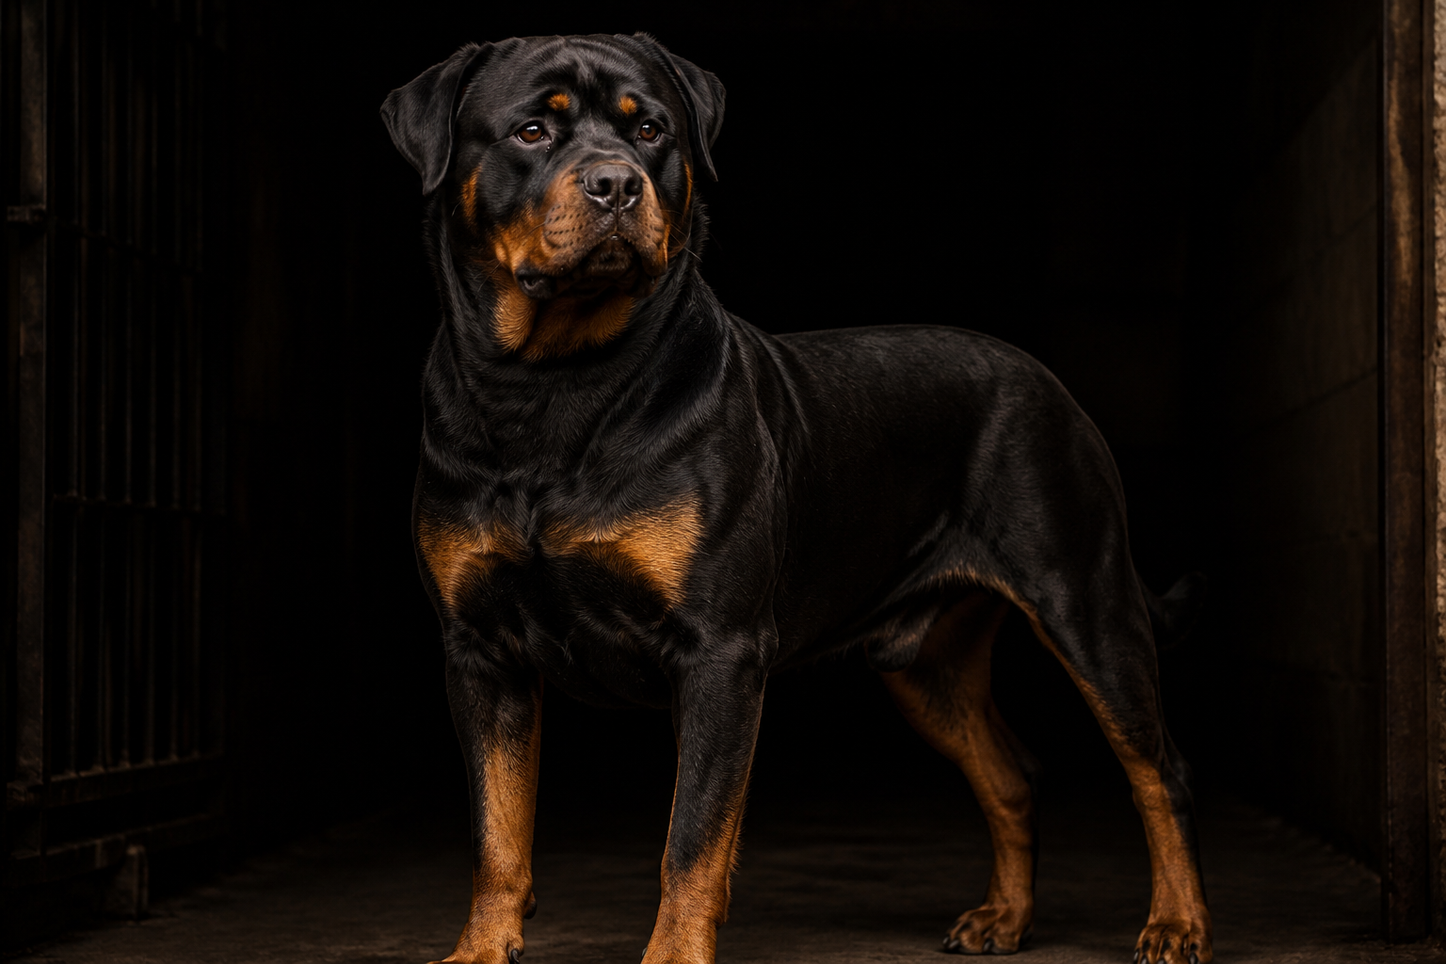
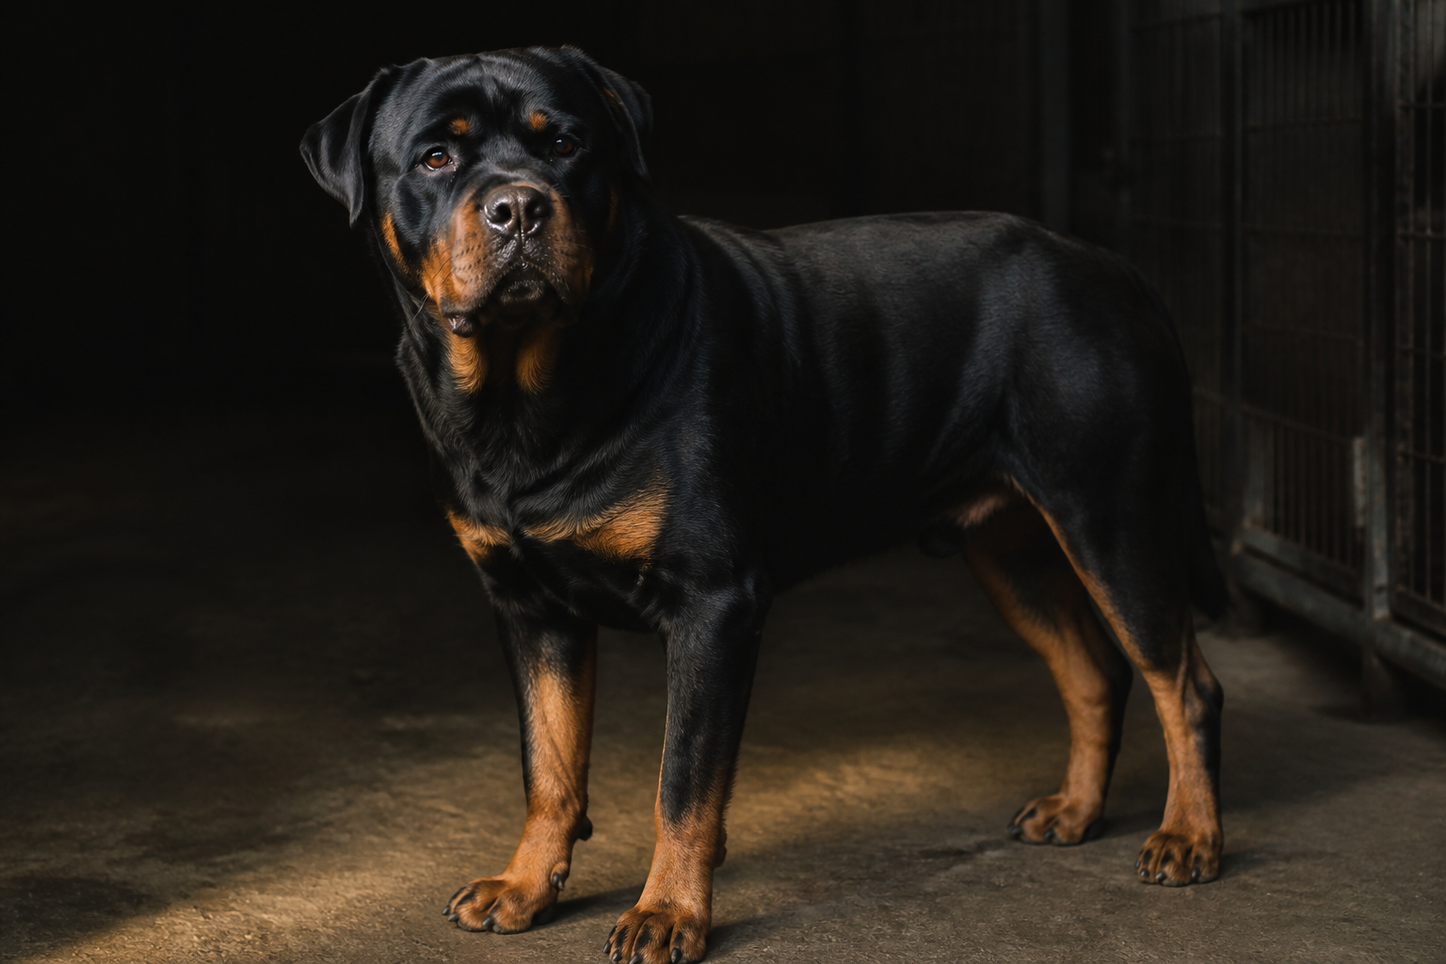
feat(org): require design briefs before Layer B production
Gate email/stills/video/paid work on design-pack briefs and prompts; regenerate Blacksage stills and add the inquiry-welcome email design brief.

diff --git a/skills/org/packs/production-artifacts/SKILL.md b/skills/org/packs/production-artifacts/SKILL.md
@@ -24,16 +24,59 @@ Markdown under `docs/projects/<active>/business-idea/` is **Layer A craft** (SSO
 7. **Wire is explicit** — handoff lists `wire_owner` (`operator` | seat slug | `none`) and what remains after approve.
 8. **Figma ≠ Layer B.** Editing in Figma alone is not production. Export PNG/SVG/PDF (or tokens/components) into the leased path before `production_status: complete`.
 9. **Verifier gate.** Shippable phases require `HANDOFFS/<phase>-verifier.md` with `verdict: pass` before C-suite may approve (see `positions/verifier/`).
+10. **Design before production.** Never generate Layer B (HTML, stills, video, design-system tokens, app UI) until a **Design brief** exists that (a) cites the required design skill packs, (b) locks look/feel from brand tokens, and (c) includes generation/layout prompts. Jumping from craft MD → pixels is a reject.
 
-## Three layers
+## Four layers
 
 | Layer | Meaning | Typical paths |
 |-------|---------|----------------|
 | **Craft** | Strategy, copy, journeys, specs | `business-idea/**/*.md` |
+| **Design** | Look/feel, layout system, generation prompts | `**/design/*-design-brief.md` (or `## Design brief` in craft) |
 | **Production** | Importable / deployable / renderable files | `.html`, `apps/…`, images, video finals, design tokens |
 | **Wire** | Live systems | ESP automations, ad accounts, DNS, analytics property |
 
-Flow: **Craft → Production → Wire**
+Flow: **Craft → Design → Production → Wire**
+
+## Design-before-production gate (mandatory)
+
+Before any still, HTML email, video final, design-system file, or app UI production:
+
+1. **Read** the phase’s **Required design packs** (table below) — not optional skim.
+2. **Pull brand tokens** from `11-brand-system.md` (color, type, imagery rules). Do not invent a parallel palette.
+3. **Write a Design brief** (file or section) that includes:
+   - **Look & feel** — layout, typography, color roles, spacing, mobile rules from the design pack
+   - **Component plan** — e.g. email inverted pyramid + bulletproof CTA; page sections; ad frame sizes
+   - **Generation prompts** — exact prompts for headers/stills/video keyframes (camera/lens language per `photoreal-stills` when photoreal)
+   - **Packs cited** — repo-relative paths of design skills actually applied
+4. **Only then** render/generate Layer B from that brief (HTML from email-design rules; stills from prompts in the brief).
+5. Handoff sets `design_brief_path` and lists design packs under **Packs used** with one concrete decision each.
+
+### Design brief paths (preferred)
+
+| Asset class | Preferred brief path |
+|-------------|----------------------|
+| Email | `17-channels/email/design/<journey>-design-brief.md` |
+| Brand stills | `11-brand/design/<slug>-design-brief.md` |
+| Page imagery | `14-pages/design/<page>-design-brief.md` |
+| Video | `15-media/design/<slug>-design-brief.md` |
+| Paid creatives | `19-paid/design/<slug>-design-brief.md` |
+| Web / design-system | `12-web-design.md` Design brief section **or** `design-system/<venture>/DESIGN-BRIEF.md` |
+
+Short phases may embed `## Design brief (required before production)` in the craft MD instead of a separate file — same required fields.
+
+### Required design packs by phase
+
+| Phase | Required design packs (read before Layer B) | Then produce with |
+|-------|---------------------------------------------|-------------------|
+| **9** | `design-system/<venture>/` tokens + seat Next/shadcn packs; `landing-page-design` when shipping marketing pages | App routes/components |
+| **11** | `ui-ux-pro-max-skill/brand/`, `visual-style`, `visual-skills/image`, **`photoreal-stills`** | Brand stills via fal/inference |
+| **12** | `ui-ux-pro-max-skill/design-system/`, `ui-styling`, `shadcn`, figma-design-to-code | `design-system/<venture>/` + UI stills |
+| **14** | Page craft + `visual-skills/image` + **`photoreal-stills`** for imagery; `landing-page-design` when HTML/app | `14-pages/assets/`; app via P9 |
+| **15** | OpenMontage visual-style + storyboard craft; **`photoreal-stills`** for keyframes | `15-media/openmontage/` |
+| **17** | **`inference-sh/email-design/`** (layout/CTA/header rules) + craft `emails/` + brand tokens; **`photoreal-stills`** for headers | `email/html/` + `email/assets/` |
+| **19** | `ad-creative` / scroll-stopping packs + **`photoreal-stills`** for stills | `19-paid/creatives/` |
+
+**Email example:** Read `email-design` → write design brief (600px, inverted pyramid, CTA table, header prompt with brand hex) → generate header still from that prompt → build HTML matching the brief. Do **not** invent HTML chrome or header prompts without the brief.
 
 ## Canonical Layer B paths
 
@@ -79,7 +122,7 @@ Flow: **Craft → Production → Wire**
 | **12** | `12-web-design.md` | `web-designer` (+ brand) | `design-system/<venture>/`; UI stills when leased | shadcn, figma-design-to-code, brand-stills | Consumed by Phase 9 — eng |
 | **14** | `14-pages/*.md` | Craft: copy/seo/content; **Imagery:** `brand-designer`; **HTML/app:** `tech-lead` (P9) | `14-pages/assets/`; app via `apps/<venture>/` | copy + visual-skills; eng packs | Deploy — operator/cto |
 | **15** | `15-media/` scripts | `video-producer` | `15-media/openmontage/` (or skip) | OpenMontage + `hero-video`; doctor green or skip | Upload — operator |
-| **17** | `17-channels/email/*.md`, `social/*.md` | Email HTML: `lifecycle-marketer`; Headers/social: `brand-designer` via ask | `17-channels/email/html/*.html`; `email/assets/`; `social/assets/` | emails + **email-design**; brand-stills | ESP — **operator** |
+| **17** | `17-channels/email/*.md`, `social/*.md` | Email HTML: `lifecycle-marketer`; Headers/social: `brand-designer` via ask | `17-channels/email/html/*.html`; `email/assets/`; `social/assets/` | Craft emails → **Design: email-design brief** → HTML + brand-stills | ESP — **operator** |
 | **18** | `18-conversion.md` | Spec; forms → `tech-lead` | `apps/<venture>/` when leased | cro + eng | Analytics — head-of-data / operator |
 | **19** | `19-paid.md` | Stills: `paid-media-manager` (+ brand); Video: `video-producer` | `19-paid/creatives/`; `19-paid/openmontage/` | ads + fal/OpenMontage; budget > $0 or skip | Ad accounts — operator |
 
@@ -120,12 +163,13 @@ Phases **0–8, 10, 13, 16, 20–22** are primarily Craft/SPEC. Production not r
 production_status: complete | skipped | blocked
 production_paths:
   - docs/projects/<active>/business-idea/17-channels/email/html/...
+design_brief_path: docs/projects/<active>/business-idea/17-channels/email/design/...-design-brief.md
 wire_owner: operator | tech-lead | none
 wire_notes: "Import HTML into ESP; set Q7 CONTACT_EMAIL"
 skip_reason: "" # required if production_status=skipped
 ```
 
-Also list production paths in the **Artifacts written** table. `production_paths` is the light asset registry for the phase.
+Also list production paths in the **Artifacts written** table. `production_paths` is the light asset registry for the phase. `design_brief_path` required when `production_status: complete` on design-led assets (email, stills, video, paid, design-system).
 
 ## Manager / C-suite / verifier gates
 
@@ -146,3 +190,5 @@ C-suite scorecards must include **Production** and **Verifier pass?** rows (see 
 | “design-system lives in the app” | SSOT is `design-system/<venture>/` |
 | “No ESP in TOOL-REGISTRY” | Wire = operator; Production HTML still required |
 | “Manager said it’s done” | Verifier must still pass |
+| “I’ll design in the HTML as I go” | Write Design brief from email-design/brand packs first |
+| “Prompt is in my head” | Prompts must be in the Design brief before stills/video |

diff --git a/docs/projects/blacksage-kennels/business-idea/HANDOFFS/17-lifecycle-marketer.md b/docs/projects/blacksage-kennels/business-idea/HANDOFFS/17-lifecycle-marketer.md
@@ -12,8 +12,10 @@ fallback_applied: false
 production_status: complete
 production_paths:
   - docs/projects/blacksage-kennels/business-idea/17-channels/email/html/inquiry-welcome-1-interest-ack.html
+  - docs/projects/blacksage-kennels/business-idea/17-channels/email/assets/blacksage-email-header-1200x400.png
+design_brief_path: docs/projects/blacksage-kennels/business-idea/17-channels/email/design/inquiry-welcome-design-brief.md
 wire_owner: operator
-wire_notes: "ESP import + merge tags ([DOMAIN], [CONTACT_EMAIL], [RESPONSE_SLA], [OPERATOR_NAME], [First Name]). Stills/video skipped for this venture proof."
+wire_notes: "ESP import + merge tags ([DOMAIN], [CONTACT_EMAIL], [RESPONSE_SLA], [OPERATOR_NAME], [First Name]). Host header PNG for ESP."
 skip_reason: ""
 ---
 
@@ -25,7 +27,9 @@ Produce Layer B HTML for one send-ready inquiry welcome email from existing craf
 ## Artifacts written (write_lease only)
 | Path | Notes |
 |------|-------|
-| `docs/projects/blacksage-kennels/business-idea/17-channels/email/html/inquiry-welcome-1-interest-ack.html` | Email 1 Package A auto-ack from `inquiry-welcome.md` |
+| `docs/projects/blacksage-kennels/business-idea/17-channels/email/design/inquiry-welcome-design-brief.md` | email-design + brand tokens → look/feel + header prompt |
+| `docs/projects/blacksage-kennels/business-idea/17-channels/email/html/inquiry-welcome-1-interest-ack.html` | Built from design brief |
+| `docs/projects/blacksage-kennels/business-idea/17-channels/email/assets/blacksage-email-header-1200x400.png` | From brief header prompt |
 
 ## Model routing
 | Field | Value |
@@ -43,30 +47,32 @@ Produce Layer B HTML for one send-ready inquiry welcome email from existing craf
 | production_paths | HTML above |
 | wire_owner | operator |
 | wire_notes | ESP import remaining |
-| skip_reason | n/a — HTML complete; headers deferred (text-only OK) |
+| skip_reason | n/a — HTML + header from design brief |
 
 ## Packs used
 | Pack path | Decision |
 |-----------|----------|
 | `skills/org/packs/production-artifacts/` | Lease `email/html/`; Wire = operator |
-| `skills/community/inference-sh/email-design/` | 600px single column, bulletproof CTA, unsub, ≥14px body |
+| `skills/community/inference-sh/email-design/` | Design brief: inverted pyramid, 600px, bulletproof CTA, header rules |
+| `skills/org/packs/photoreal-stills/` | Header prompt locked in design brief before gen |
 | `skills/community/marketingskills/emails/` | Craft already in `inquiry-welcome.md` |
 
 ## Email HTML QA
 - [x] File under `17-channels/email/html/`
 - [x] Max-width ~600px, single column
 - [x] Primary CTA bulletproof table button
-- [x] No images (headers deferred)
+- [x] Header image with alt text (from design brief prompt)
 - [x] Unsubscribe placeholder present
 - [x] Body font 16px
 - [x] Matches craft subject/preview/CTA intent
 
 ## Asks for manager (`ask_manager`)
-- None for HTML proof. Brand headers optional later via brand-designer.
+- None for this proof.
 
 ## Risks / blockers
 - Placeholders `[DOMAIN]`, `[CONTACT_EMAIL]`, `[RESPONSE_SLA]` still operator-owned (known soft-launch blockers).
+- Header still is Cursor draft until FAL key enables FLUX.2 finals.
 
 ## Do not
 - Quote price or imply reservation/approval in email.
-- Claim stills/video production for this proof.
+- Generate Layer B without a design brief citing email-design.

diff --git a/docs/projects/blacksage-kennels/business-idea/17-channels/email/design/inquiry-welcome-design-brief.md b/docs/projects/blacksage-kennels/business-idea/17-channels/email/design/inquiry-welcome-design-brief.md
@@ -1,0 +1,62 @@
+# Design brief — Inquiry welcome (Package A Email 1)
+
+**Craft source:** `17-channels/email/inquiry-welcome.md` (Email 1)  
+**Brand tokens:** `11-brand-system.md` (Working-Dog Cinema)  
+**Status:** locked for production HTML + header still
+
+## Packs cited
+
+| Pack | Decision applied |
+|------|------------------|
+| `skills/community/inference-sh/email-design/` | 600px single column; inverted pyramid; bulletproof CTA table; body ≥14px; intentional preview text; header 600×~250–400 |
+| `skills/org/packs/production-artifacts/` | Design before HTML/stills; lease `email/html/` + `email/assets/` |
+| `skills/org/packs/photoreal-stills/` | Header prompt uses camera/lens + brand hex; draft Cursor gen until FAL |
+| `skills/community/marketingskills/emails/` | Journey craft already locked in MD |
+
+## Look & feel
+
+| Token | Value |
+|-------|-------|
+| Outer bg | `#070707` (void) |
+| Email card | `#121212` (elevated) |
+| Text primary | `#F3EFE6` |
+| Text muted | `#A8A49C` |
+| CTA fill | `#C4A35A` (tan key) |
+| CTA text | `#070707` |
+| Display | Georgia / serif for headline |
+| Body | Arial/Helvetica ≥16px, line-height ~1.55 |
+| Width | max-width 600px, single column |
+| Mood | Documentary calm; prestige kennel — not promo scarcity |
+
+## Layout (email-design inverted pyramid)
+
+1. **Header image** — full-bleed 600px wide photoreal Rottweiler (Working-Dog Cinema)
+2. **Headline** — thank-you / interest list confirmation
+3. **Preview support** — one muted line (inbox preview intent)
+4. **Body** — short paragraphs + “What happens next” bullets
+5. **Primary CTA** — bulletproof table button → Health & education
+6. **Footer** — unsubscribe / contact placeholders
+
+## Header still — generation prompt (locked)
+
+```text
+Photorealistic wide email header banner photograph, cinematic horizontal crop of a Rottweiler head and shoulders three-quarter profile facing right against near-black void #070707, warm #C4A35A key and rim light on muzzle cheek and eyebrow markings, generous dark negative space on the right third of frame, natural fur detail and wet nose, shot on Leica SL2 with 90mm APO Summicron at f/2.8, Kodak Portra 400 look, low-key documentary prestige, photoreal not illustration, no typography no logos no watermarks no people
+```
+
+**Aspect:** 16:9 delivery cropped for ~600×200–400 email header  
+**Output path:** `17-channels/email/assets/blacksage-email-header-1200x400.png`  
+**Alt text:** `Blacksage Kennels — ADRK-aligned Rottweiler`
+
+## HTML production notes
+
+- Match craft subject/preview/CTA; keep merge placeholders (`[DOMAIN]`, `[CONTACT_EMAIL]`, etc.)
+- No price, no reservation, no FOMO language
+- Local preview: relative `../assets/…`; ESP Wire needs hosted image URL (operator)
+
+## Production targets
+
+| Artifact | Path |
+|----------|------|
+| Design brief | `17-channels/email/design/inquiry-welcome-design-brief.md` (this file) |
+| HTML | `17-channels/email/html/inquiry-welcome-1-interest-ack.html` |
+| Header still | `17-channels/email/assets/blacksage-email-header-1200x400.png` |

diff --git a/docs/projects/blacksage-kennels/business-idea/HANDOFFS/17-manager-cmo.md b/docs/projects/blacksage-kennels/business-idea/HANDOFFS/17-manager-cmo.md
@@ -13,24 +13,27 @@ fallback_applied: false
 production_status: complete
 production_paths:
   - docs/projects/blacksage-kennels/business-idea/17-channels/email/html/inquiry-welcome-1-interest-ack.html
+  - docs/projects/blacksage-kennels/business-idea/17-channels/email/assets/blacksage-email-header-1200x400.png
+design_brief_path: docs/projects/blacksage-kennels/business-idea/17-channels/email/design/inquiry-welcome-design-brief.md
 wire_owner: operator
-wire_notes: "HTML proof only; ESP Wire pending operator. Brand headers deferred. Stills/video skipped."
+wire_notes: "HTML + header from design brief; ESP Wire pending operator."
 skip_reason: ""
 ---
 
 # Manager brief — CMO — Phase 17 (Blacksage HTML proof)
 
 ## Summary
-Lifecycle produced one importable HTML email from `inquiry-welcome.md` Email 1. Dual-lease brand assets not in scope for this proof (text-only HTML with headers deferred). Verifier spawn requested via CTO.
+Lifecycle followed Craft → Design → Production: email-design brief → HTML + header still. Verifier spawn requested via CTO.
 
 ## IC handoffs merged
-- `17-lifecycle-marketer.md` — production_status complete
+- `17-lifecycle-marketer.md` — production_status complete; design_brief_path set
 
 ## Production
 | Field | Value |
 |-------|-------|
 | production_status | complete |
-| production_paths | inquiry-welcome-1-interest-ack.html |
+| design_brief_path | `email/design/inquiry-welcome-design-brief.md` |
+| production_paths | HTML + header PNG |
 | wire_owner | operator |
 
 ## Conflicts resolved

diff --git a/skills/org/positions/verifier/SKILL.md b/skills/org/positions/verifier/SKILL.md
@@ -48,8 +48,8 @@ _IC seat — request peers via `ask_manager` only._
 ## Delegation protocol (IC)
 1. Identify what was claimed complete (manager brief + IC handoffs + `production_paths`).
 2. Check implementation exists on disk and is functional (open HTML, run listed tests/doctor, smoke app routes when Phase 9).
-3. Run relevant checks (shell gates, `scripts/doctor-production-runtime.sh` when render claimed, email HTML QA for Phase 17, **photoreal reject checklist** when stills claimed complete).
-4. Hunt edge cases / false completes (empty dirs, MD-only “production”, Cursor-draft gens shipped as finals, missing skip reasons).
+3. Run relevant checks (shell gates, `scripts/doctor-production-runtime.sh` when render claimed, email HTML QA for Phase 17, **photoreal reject checklist** when stills claimed complete, **Design brief present** when Layer B visuals/HTML claimed complete).
+4. Hunt edge cases / false completes (empty dirs, MD-only “production”, craft→pixels with no design brief, Cursor-draft gens shipped as finals, missing skip reasons).
 5. Write **only** `HANDOFFS/<phase>-verifier.md` with `verdict: pass | fail`.
 6. Need a peer? Set `ask_manager` — **do not spawn**. Do **not** mark the phase complete.
 

diff --git a/skills/org/HANDOFF-TEMPLATE.md b/skills/org/HANDOFF-TEMPLATE.md
@@ -13,6 +13,7 @@ Copy to `docs/projects/<active>/business-idea/HANDOFFS/<phase>-<slug>.md` before
 5. Risks / blockers and Do-not sections present.
 6. Handoff is not a ≤20-line stub when the phase changed user-visible craft.
 7. On shippable phases (**9, 9B, 11, 12, 14, 15, 17, 19**): `production_status` set; if `complete`, `production_paths` lists real Layer B files (see `packs/production-artifacts`).
+8. When Layer B includes designed visuals/HTML: **Design brief** exists (`design_brief_path`) citing required design packs (e.g. `email-design` before email HTML/headers). Reject “craft → pixels” with no brief.
 
 Exception: pure skip handoffs (e.g. Phase 15 skip) may be short if they only record the skip reason.
 
@@ -55,6 +56,7 @@ fallback_applied: false
 # Required on shippable phases (9, 9B, 11, 12, 14, 15, 17, 19) — see packs/production-artifacts:
 production_status: complete | skipped | blocked
 production_paths: []
+design_brief_path: ""   # required when production_status=complete for email/stills/video/paid/design-system
 wire_owner: operator | none | "<seat-slug>"
 wire_notes: ""
 skip_reason: ""

diff --git a/skills/org/positions/lifecycle-marketer/SKILL.md b/skills/org/positions/lifecycle-marketer/SKILL.md
@@ -95,9 +95,10 @@ Resolve secrets via `obsidian-secrets` then `.env.local`. If unavailable → `to
 
 ## Done criteria
 - [ ] Craft outputs written (lease-respecting) — full MD journeys
+- [ ] **Design brief** written under `17-channels/email/design/` (or `## Design brief` in craft) after reading **`email-design`** + brand tokens — look/feel, CTA/layout, header prompts — **before** any HTML or header still
 - [ ] Production: `17-channels/email/html/*.html` for each send-ready email **or** `production_status: skipped` with reason
-- [ ] Handoff includes `production_status`, `production_paths`, `wire_owner` (usually `operator` for ESP)
-- [ ] Packs followed (including production-artifacts + email-design)
+- [ ] Handoff includes `production_status`, `production_paths`, `design_brief_path`, `wire_owner` (usually `operator` for ESP)
+- [ ] Packs followed (including production-artifacts + email-design); email-design cited with concrete layout decisions
 - [ ] Model audit fields on handoff (`llm_tier`, `llm_model`, `generation_*`, `fallback_applied`)
 - [ ] Summary returned up the chain (not sideways to peers)
 

diff --git a/skills/org/positions/web-designer/SKILL.md b/skills/org/positions/web-designer/SKILL.md
@@ -108,8 +108,9 @@ Resolve secrets via `obsidian-secrets` then `.env.local`. If unavailable → `to
 - [ ] Craft outputs written (lease-respecting) — IA / `12-web-design.md`
 - [ ] Production: `design-system/<venture>/` files present for eng consume **or** `production_status: skipped` with reason
 - [ ] Figma edits exported into leased paths before claiming production complete
+- [ ] **Design brief** from design-system / ui-styling / shadcn packs before writing `design-system/<venture>/` or UI stills
 - [ ] UI stills (if rendered): photoreal checklist / `photoreal_qa` per photoreal-stills pack
-- [ ] Handoff includes `production_status`, `production_paths`, `wire_owner`
+- [ ] Handoff includes `production_status`, `production_paths`, `design_brief_path`, `wire_owner`
 - [ ] Packs followed (including production-artifacts + photoreal-stills when stills rendered)
 - [ ] Model audit fields on handoff (`llm_tier`, `llm_model`, `generation_*`, `fallback_applied`)
 - [ ] Summary returned up the chain (not sideways to peers)

diff --git a/skills/org/positions/brand-designer/SKILL.md b/skills/org/positions/brand-designer/SKILL.md
@@ -113,9 +113,10 @@ Resolve secrets via `obsidian-secrets` then `.env.local`. If unavailable → `to
 
 ## Done criteria
 - [ ] Craft outputs written (lease-respecting)
+- [ ] **Design brief** with look/feel + exact still prompts (from brand / visual-skills / photoreal-stills) **before** any image generation
 - [ ] Production: rendered stills on leased paths **or** `production_status: skipped` with reason (`generation_profile: brand-stills` when rendering)
 - [ ] Photoreal reject checklist passed (`photoreal_qa: pass`) before claiming complete — see photoreal-stills pack
-- [ ] Handoff includes `production_status`, `production_paths`, `wire_owner`, `photoreal_qa`
+- [ ] Handoff includes `production_status`, `production_paths`, `design_brief_path`, `wire_owner`, `photoreal_qa`
 - [ ] Packs followed (including production-artifacts + photoreal-stills)
 - [ ] Model audit fields on handoff (`llm_tier`, `llm_model`, `generation_*`, `fallback_applied`)
 - [ ] Summary returned up the chain (not sideways to peers)

diff --git a/skills/org/positions/paid-media-manager/SKILL.md b/skills/org/positions/paid-media-manager/SKILL.md
@@ -106,8 +106,9 @@ Resolve secrets via `obsidian-secrets` then `.env.local`. If unavailable → `to
 ## Done criteria
 - [ ] Craft outputs written (lease-respecting) — angles, funnel, channel plan
 - [ ] Production: files under `19-paid/creatives/` (and video finals when budgeted) **or** `production_status: skipped` with reason
+- [ ] **Design brief** (ad frame, copy lock, still prompts from ad-creative + photoreal-stills) **before** generating creatives
 - [ ] Ad stills: `photoreal_qa: pass` before complete (photoreal-stills pack)
-- [ ] Handoff includes `production_status`, `production_paths`, `wire_owner`, `photoreal_qa` when stills shipped
+- [ ] Handoff includes `production_status`, `production_paths`, `design_brief_path`, `wire_owner`, `photoreal_qa` when stills shipped
 - [ ] Packs followed (including production-artifacts + photoreal-stills)
 - [ ] Model audit fields on handoff (`llm_tier`, `llm_model`, `generation_*`, `fallback_applied`)
 - [ ] Summary returned up the chain (not sideways to peers)

diff --git a/skills/org/positions/video-producer/SKILL.md b/skills/org/positions/video-producer/SKILL.md
@@ -110,9 +110,10 @@ Resolve secrets via `obsidian-secrets` then `.env.local`. If unavailable → `to
 
 ## Done criteria
 - [ ] Craft outputs written (lease-respecting) — scripts/storyboards
+- [ ] **Design brief** (visual-style, shot list, keyframe prompts) **before** any render/OpenMontage run
 - [ ] Production: OpenMontage finals under leased path **or** `production_status: skipped` with reason
 - [ ] `scripts/doctor-production-runtime.sh` green before claiming render complete (or production skip)
-- [ ] Handoff includes `production_status`, `production_paths`, `wire_owner`
+- [ ] Handoff includes `production_status`, `production_paths`, `design_brief_path`, `wire_owner`
 - [ ] Packs followed (including production-artifacts)
 - [ ] Model audit fields on handoff (`llm_tier`, `llm_model`, `generation_*`, `fallback_applied`)
 - [ ] Summary returned up the chain (not sideways to peers)

diff --git a/skills/org/packs/photoreal-stills/SKILL.md b/skills/org/packs/photoreal-stills/SKILL.md
@@ -24,6 +24,10 @@ Use for brand, page, email, social, and paid **still** production when the claim
 | `skills/community/inference-sh/image-upscaling/` | Final megapixel / print pass |
 | `skills/org/packs/production-artifacts/` | Paths + `production_status` |
 
+## Prerequisite: Design brief
+
+Do **not** call image generation until a Design brief exists (see `production-artifacts` **Design-before-production gate**). The brief must include the exact generation prompt(s), brand hex/lighting locks, crop/aspect, and cited design packs (`visual-skills/image`, brand, email-design for headers, etc.). Production stills are rendered **from the brief**, not freestyled.
+
 ## How “indistinguishable from reality” is achieved
 
 Research + BFL guidance converge on a **pipeline**, not a magic adjective (“8k”, “ultra realistic”):
